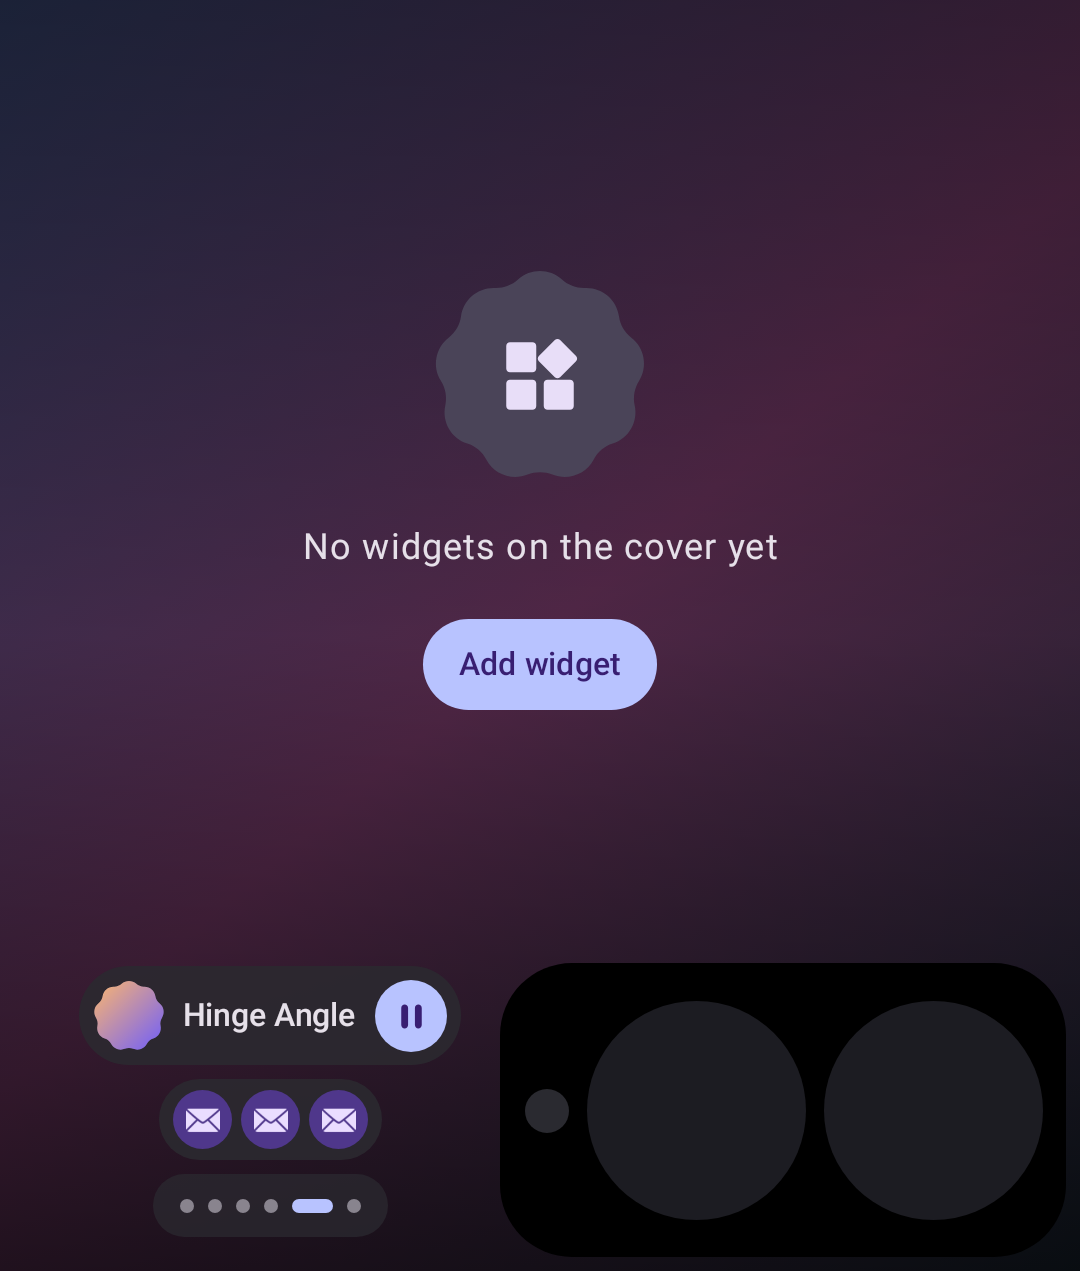
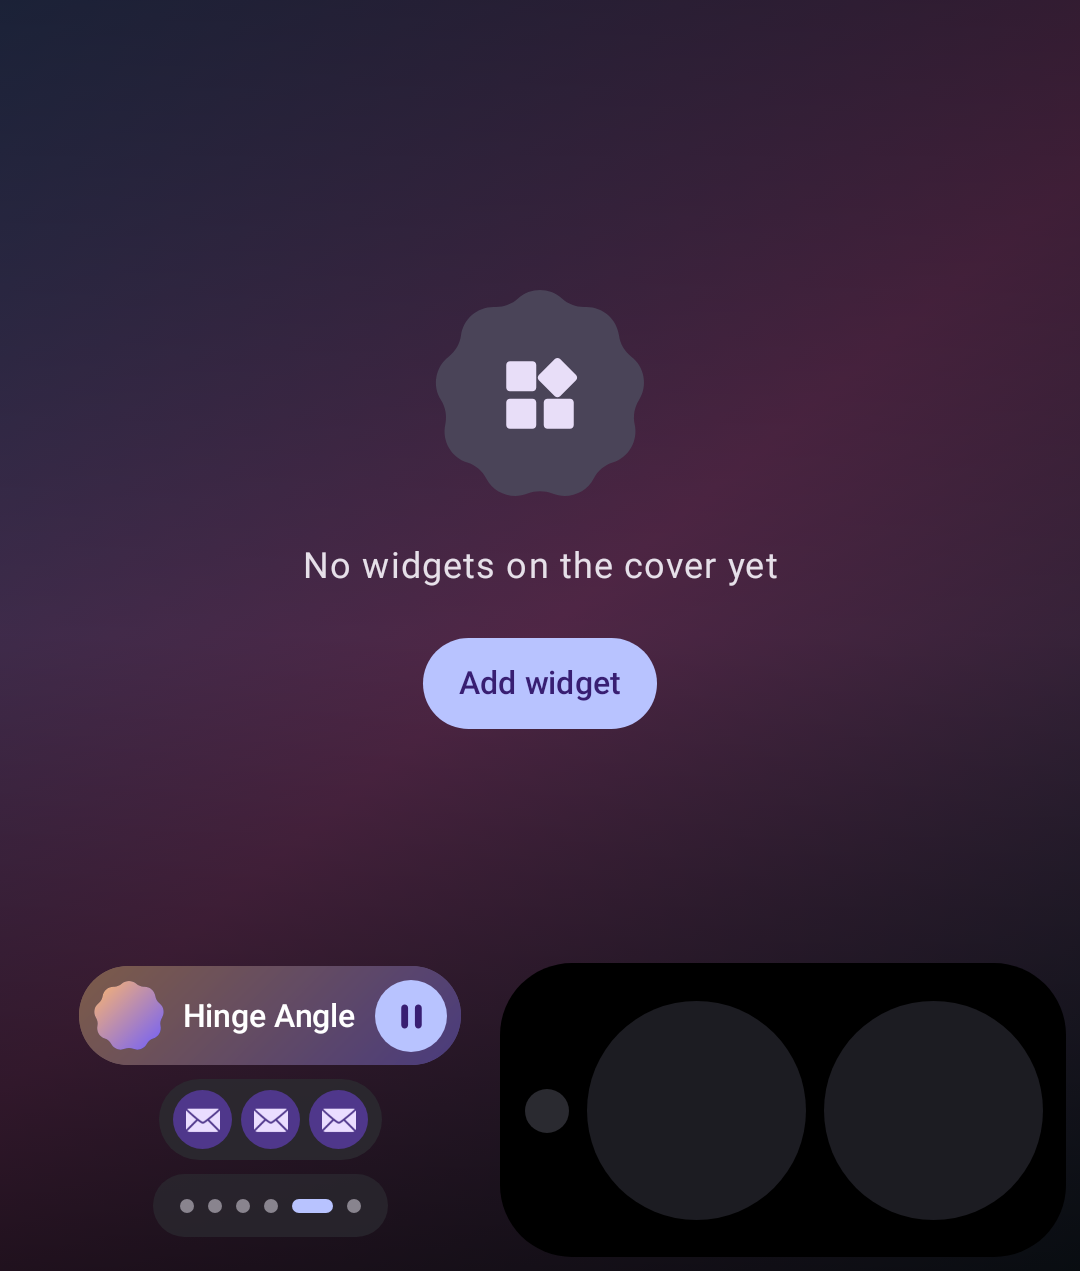
test: re-record screenshots with the status bar inset and album art

diff --git a/app/src/test/java/com/tuki/flipslop/ui/CoverScreenshotTest.kt b/app/src/test/java/com/tuki/flipslop/ui/CoverScreenshotTest.kt
@@ -19,6 +19,7 @@ import androidx.compose.foundation.layout.fillMaxSize
 import androidx.compose.ui.Modifier
 import androidx.compose.ui.graphics.Brush
 import androidx.compose.ui.graphics.Color
+import androidx.compose.ui.unit.dp
 import androidx.test.core.app.ApplicationProvider
 import com.github.takahirom.roborazzi.captureRoboImage
 import com.tuki.flipslop.apps.AppEntry
@@ -91,7 +92,8 @@ class CoverScreenshotTest {
                         .fillMaxSize()
                         .background(Brush.linearGradient(listOf(Color(0xFF3B4A7A), Color(0xFF7A3B6B), Color(0xFF1E2B3A)))),
                 ) {
-                    CoverScreen(state = state, actions = NoopCoverActions, initialPage = page)
+                    // 33dp: arcfox status_bar_height_portrait. Robolectric draws no status bar.
+                    CoverScreen(state = state, actions = NoopCoverActions, initialPage = page, topInset = 33.dp)
                 }
             }
         }
@@ -139,6 +141,7 @@ class CoverScreenshotTest {
             edgePaddingDp = 24,
             dock = DockConfig(cameraSide = arcfox.coverCameraSide, cameraWidthDp = arcfox.coverCameraWidthDp),
             showCameraGuide = true,
+            systemStatusBar = true,
         )
     }
 
